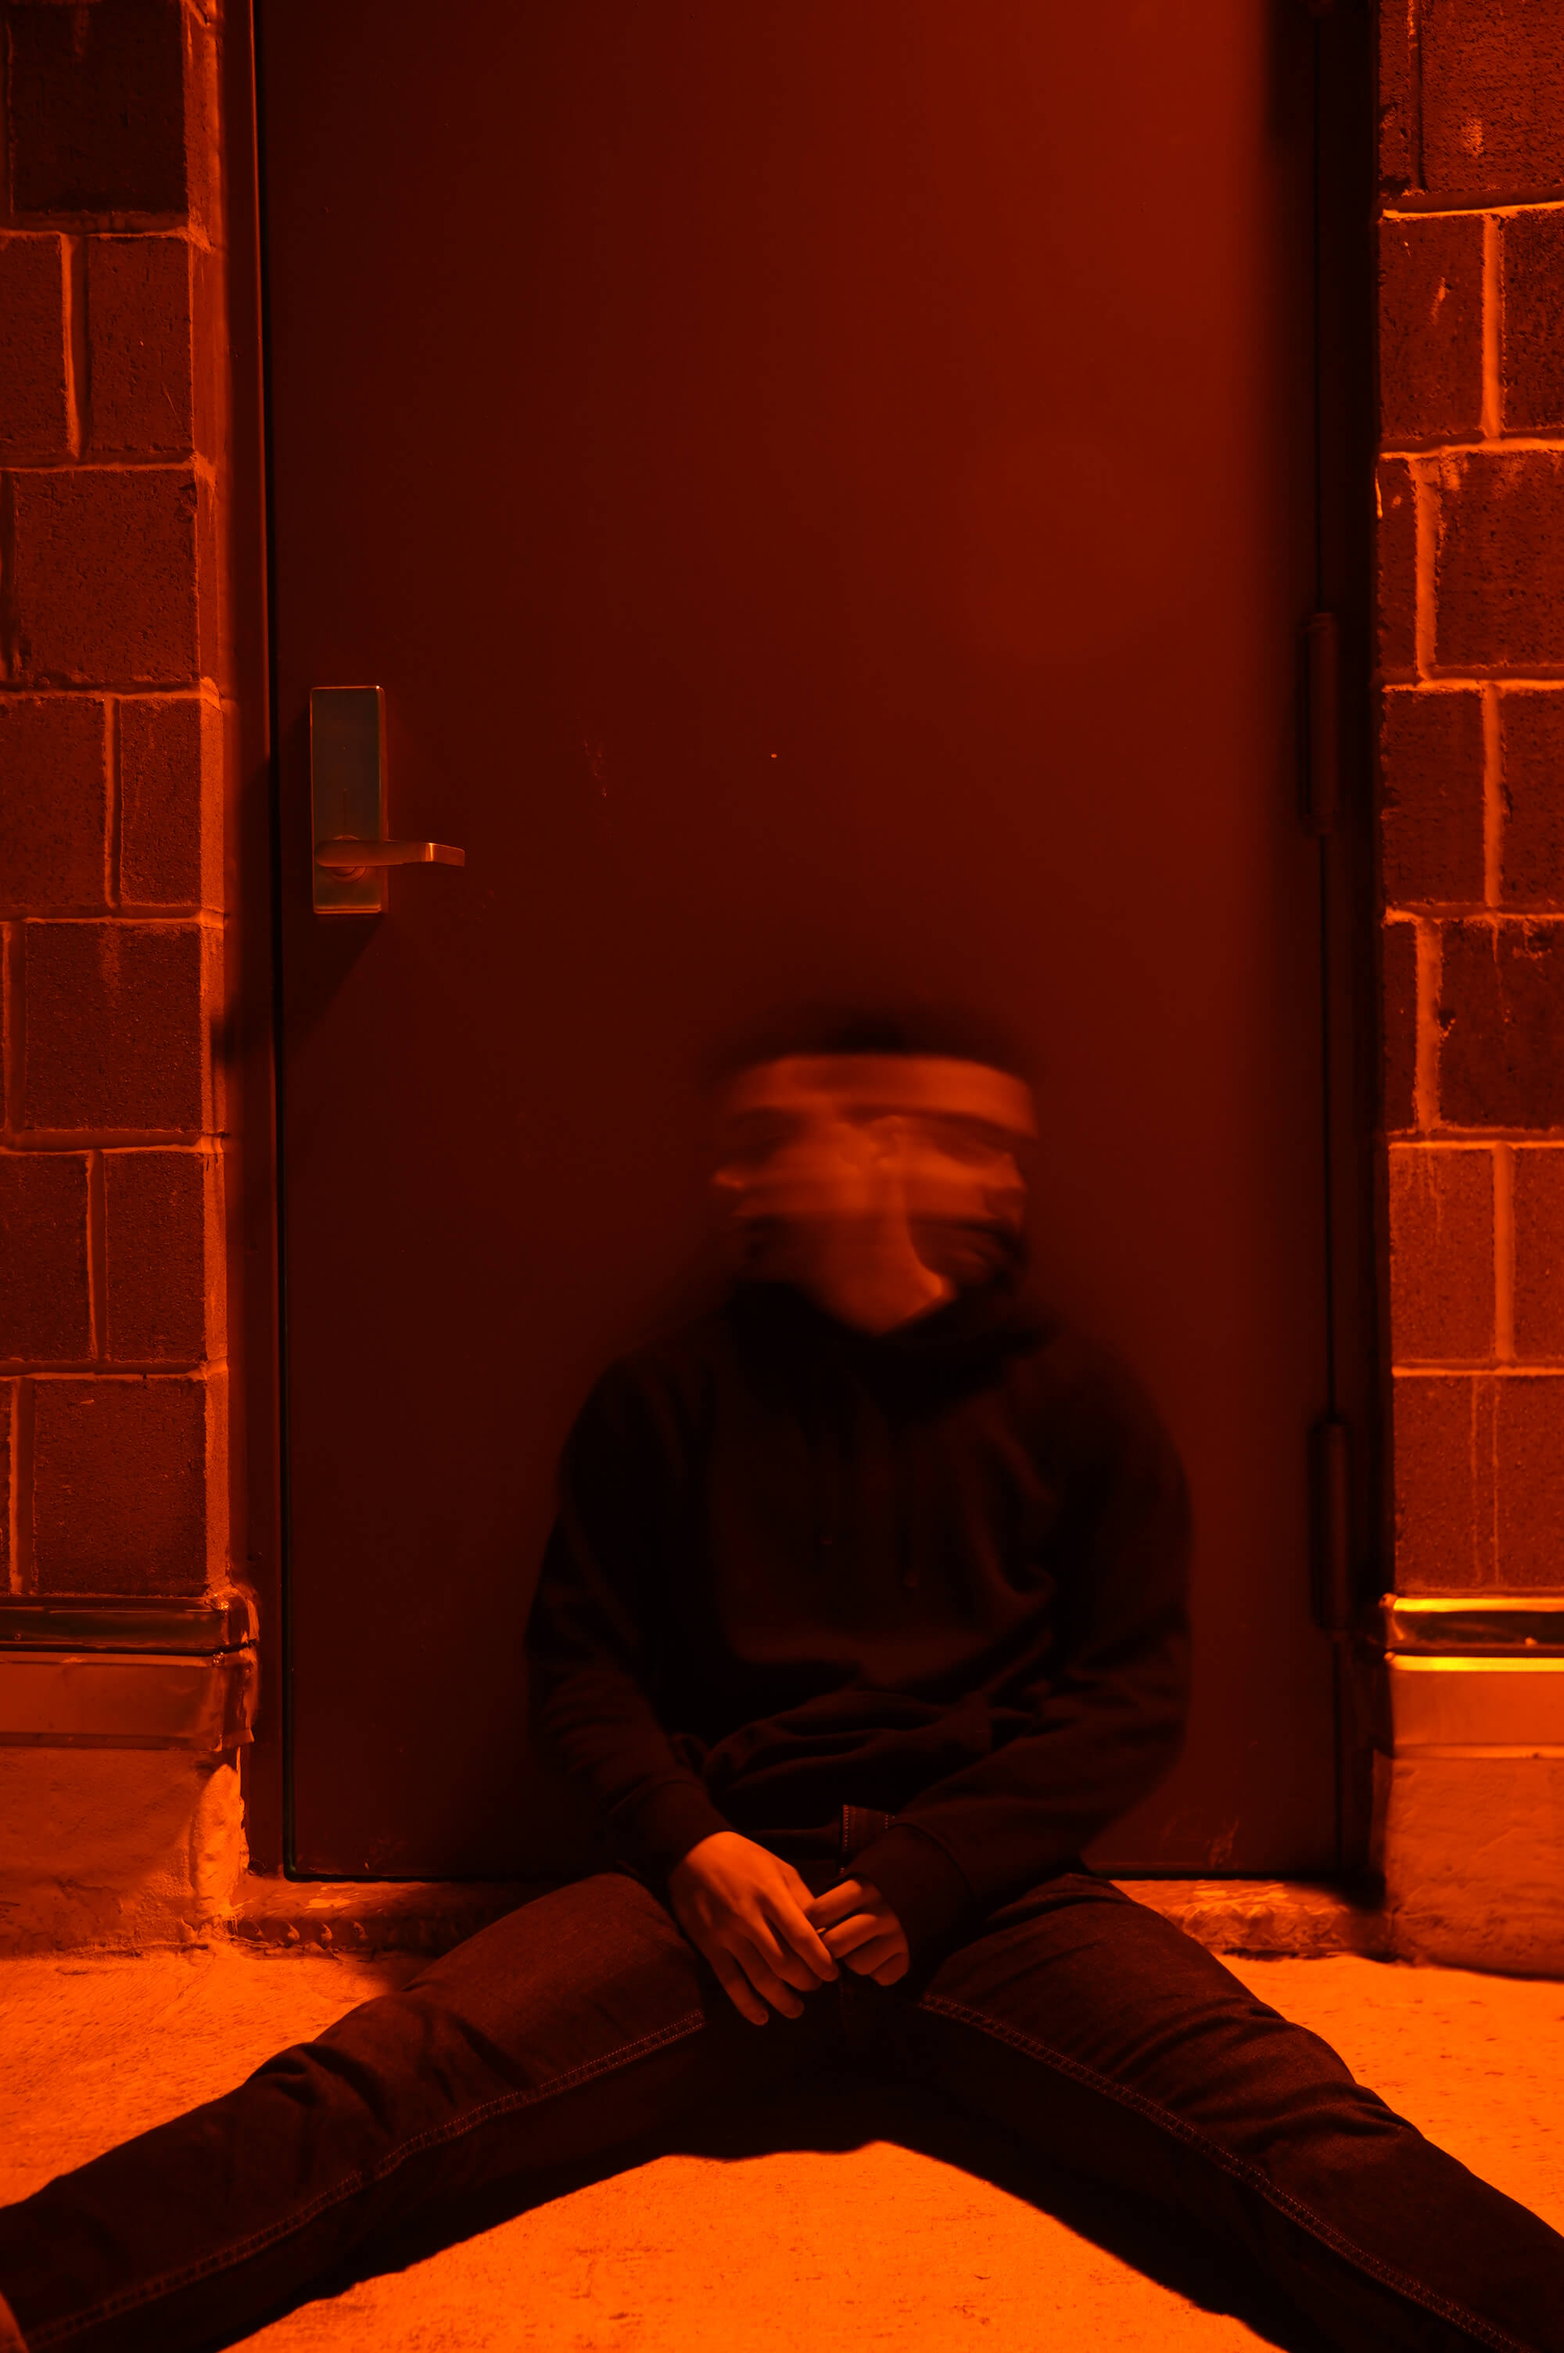
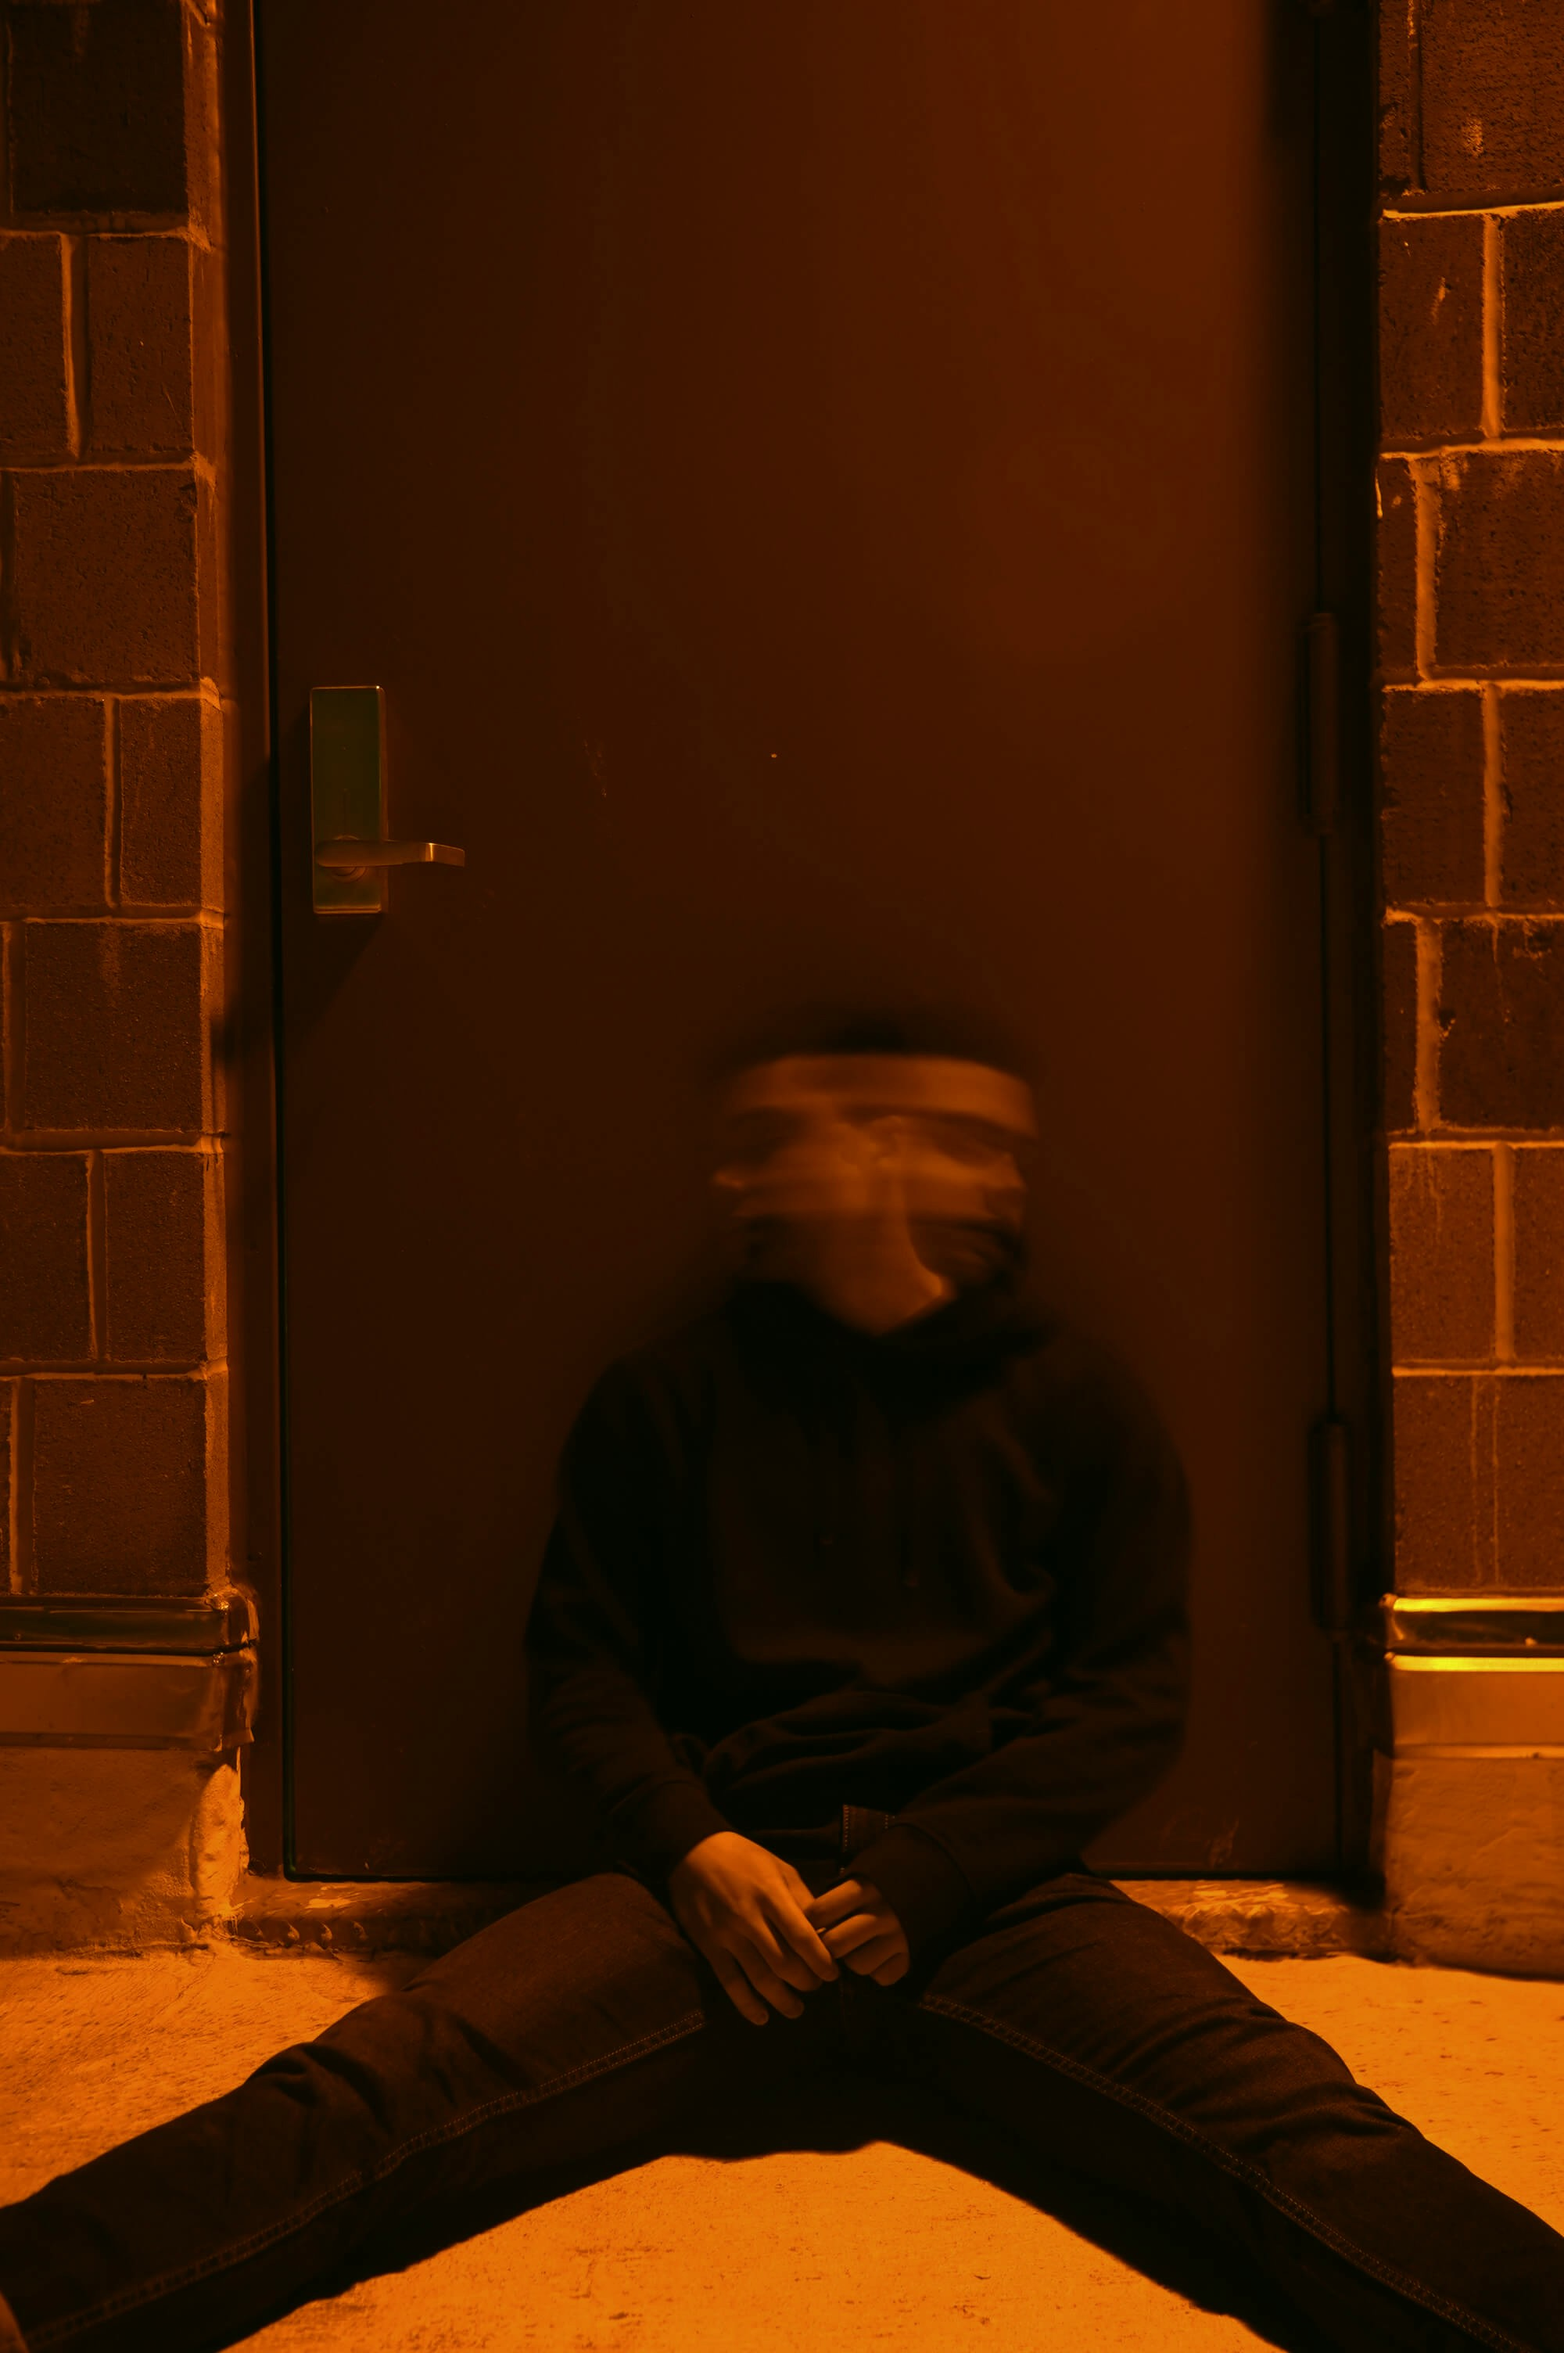
Minor changes

diff --git a/src/components/About.jsx b/src/components/About.jsx
@@ -9,7 +9,20 @@ function About() {
         <a className="text-gc-2 dark:text-gc" href="https://gc.com/"> GameChanger</a>,
         <a className="text-bowery-2 dark:text-bowery" href="https://bowery.co/"> Bowery Farming</a>, and
         <a className="text-watchwire-2 dark:text-watchwire" href="https://watchwire.ai/"> WatchWire</a>.
-        I've shipped new pages to design specs, established new authentication methods, written monitoring scripts and peformed database housekeeping. </p>
+        I've shipped new pages to design specs, established new authentication methods, written monitoring scripts and peformed database housekeeping.
+      </p>
+      { } <p className="pb-8 md:text-xl flex">
+        In April, I'm starting a new role at
+        <div className="ml-1 flex">
+          <p className="text-blue-600">G</p>
+          <p className="text-red-500">o</p>
+          <p className="text-yellow-500">o</p>
+          <p className="text-blue-600">g</p>
+          <p className="text-green-500">l</p>
+          <p className="text-red-500">e</p>
+        </div>
+        !
+      </p>
       <p className="pb-8 md:text-xl">I am Houston-born and NYC-raised with Honduran roots. </p>
       <p className="pb-8 md:text-xl">Beyond the keyboard, I love to get outdoors and explore. I am an avid rock climber and hiker with plenty of adventures to tell around a campfire. </p>
     </div >

diff --git a/src/components/Scroller.jsx b/src/components/Scroller.jsx
@@ -1,8 +1,8 @@
 function Scroller({ images, title }) {
   return (
-    <div className="pb-8">
+    <div className="pb-8 text-stone-800 dark:text-white">
       <h1 className="text-xl font-bold pb-4">{title}</h1>
-      <div className="pb-4 text-stone-800 dark:text-white overflow-auto whitespace-nowrap">
+      <div className="pb-4 overflow-auto whitespace-nowrap">
         {images.map(image => (
           <div className="mr-8 p-1 border border-solid inline-block h-60 w-80">
             <img className="object-cover w-full h-full" src={image} />

diff --git a/src/pages/AboutPage.jsx b/src/pages/AboutPage.jsx
@@ -3,6 +3,7 @@ import About from "../components/About";
 import Footer from "../components/Footer";
 import Scroller from "../components/Scroller";
 import galleryImages from "../utils/galleryImages";
+import Timeline from "../components/Timeline";
 
 function AboutPage() {
   return (
@@ -10,6 +11,8 @@ function AboutPage() {
       <Header />
       <About />
       <Footer />
+      <Timeline title="Work" />
+      <Timeline title="Education" />
       <Scroller images={galleryImages} title="Gallery" />
     </div>
   )

diff --git a/src/utils/galleryImages.js b/src/utils/galleryImages.js
@@ -2,7 +2,7 @@ import treeman from "../assets/img/DSC05166.jpg"
 import bison from "../assets/img/DSC08321.jpg"
 import quad from "../assets/img/quad ap.jpg"
 import hunter from "../assets/img/PST01608.jpg"
-import portrait from "../assets/img/DSC08234.jpg"
+import portrait from "../assets/img/DSC01507.jpg"
 import lone from "../assets/img/PST00130(1).jpg"
 
 const galleryImages = [hunter, portrait, lone, treeman, quad, bison]

diff --git a/src/components/Timeline.jsx b/src/components/Timeline.jsx
@@ -1,0 +1,9 @@
+function Timeline({ items, title }) {
+  return (
+    <div className="text-stone-800 dark:text-white">
+      {title}
+    </div>
+  )
+}
+
+export default Timeline
